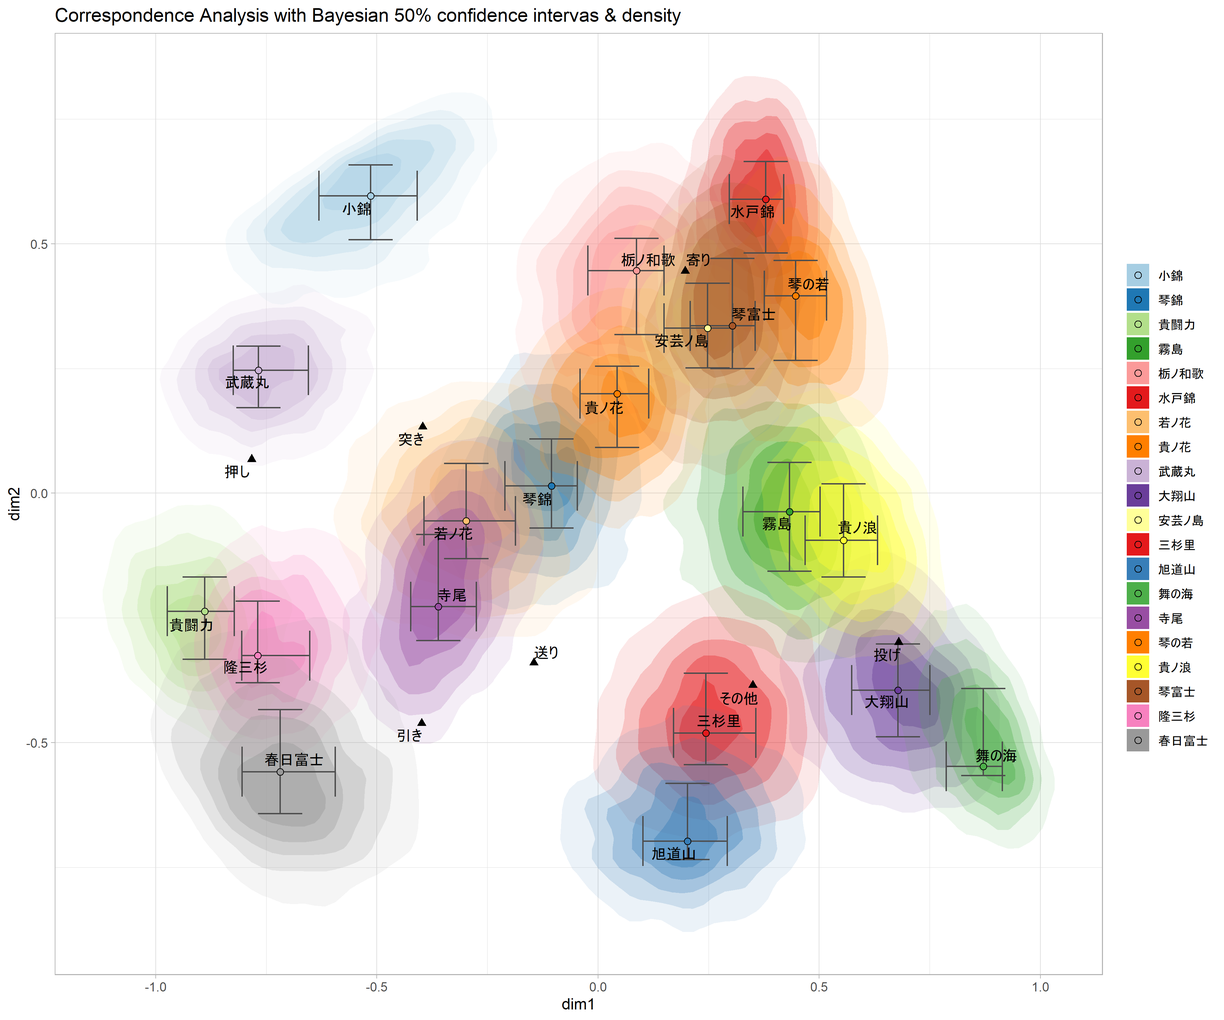
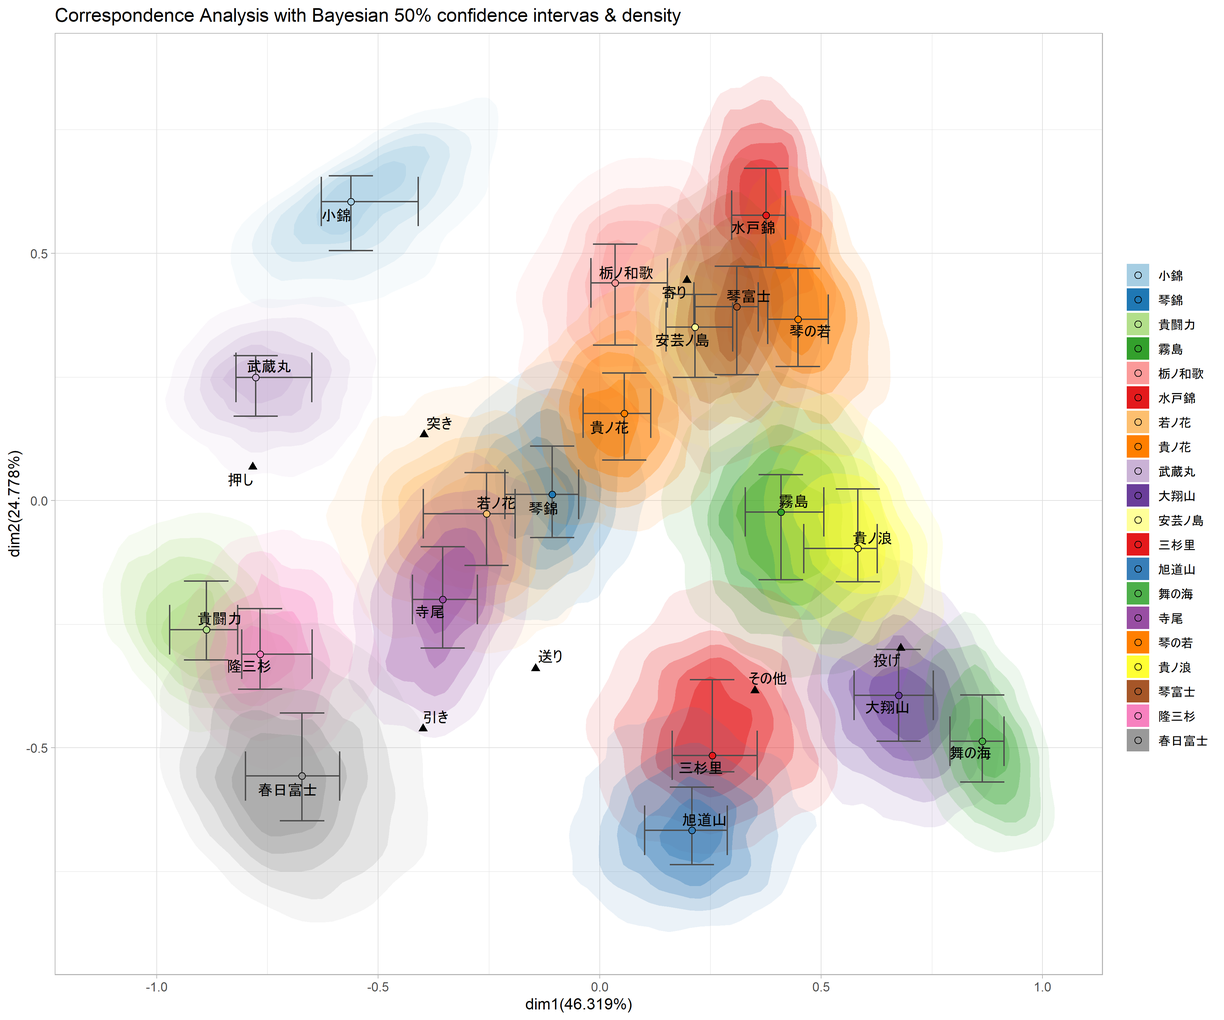
corresp-and-bayes

diff --git a/2020/12/corresp-and-bayes/index.html b/2020/12/corresp-and-bayes/index.html
@@ -69,16 +69,16 @@
 
 <div class="main-content">
     <div class="main-content__date">
-        <h4 id="date"> 2020.12.10 00:00 </h4>
+        <h4 id="date"> 2020.12.11 00:00 </h4>
     </div>
     <div class="main-content__title">
-        <h1 id="title">対応分析の付置にベイズ信頼区間をもたせる</h1>
+        <h1 id="title">Stanで対応分析の付置にベイズ信頼区間をもたせる</h1>
     </div>
     <div class="main-content__article">
         <article id="content">
             <h1 id="はじめに">はじめに</h1>
-<p>この記事は<a href="https://qiita.com/advent-calendar/2020/stan">Stan Advent calendar</a>12月12日にエントリーしている記事です。<br>
-普段よりもこのページを見る人が多いと思うので少し自分のことについて。私はアカデミックの世界に身を置いている訳でもなし、IT系で働いている訳でもない一般人です。このブログのテーマも興味のおもむくままに。なのであまり詮索しないでください…</p>
+<p>この記事は<a href="https://qiita.com/advent-calendar/2020/stan">Stan Advent calendar</a>12月12日の記事です。<br>
+普段よりもこのページを見る人が多いと思います、私のことは<a href="https://rmorita-stat.github.io/about/">こちら</a>で紹介しています。匿名主義なので何の情報もありませんが…</p>
 <p>ここでは多変量解析の一つである<strong>対応分析</strong>を題材にします。</p>
 <p>対応分析は多変量のカテゴリカルデータに用いられる分析で、クロス集計表の結果を視覚的に表現するために使われる統計的手法です。</p>
 <p>実は対応分析は私の修士研究で使用した解析手法なのですが、対応分析の付置はデータ数に依存しないことから、座標を得るだけでその信頼性が確認できないところに当時問題を感じていました。<br>
@@ -113,7 +113,8 @@
 </ul>
 <!-- raw HTML omitted -->
 <p>参考にした論文は前回と同様の<a href="https://www.jstage.jst.go.jp/article/jscswabun/7/2/7_KJ00002502205/_article/-char/ja/">こちら</a>です。  <br>
-この論文はもうだいぶ古いですが、既に対応分析の付置の信頼性の問題を解決してくれています。ただし解析的な正規分布への近似をもとに信頼区間を求めているようなので、本記事ではこの論文とは別のベイズ的なアプローチをとることにします。</p>
+この論文はもうだいぶ古いですが、既に対応分析の付置の信頼性の問題に着目しています。ただし解析的な正規分布への近似をもとに信頼区間を求めているようなので、本記事ではこの論文とは別のベイズ的なアプローチをとることにします。</p>
+<p>ベイズ的なアプローチの部分は先行文献が見当たらなかったのでオリジナルです。そんな変なことはしていないと思うのですが…いや、どうなんだろう。</p>
 <h1 id="対応分析について">対応分析について</h1>
 <p>対応分析とはクロス集計表など、カテゴリカルな行と列のデータを視覚的に表現することで、項目間の関係を把握しようとする手法です。コレスポンデンス分析とも呼ばれ、数理的には林先生の数量化理論第Ⅲ類と同等のものとされています。<br>
 対応分析の数理的な内容については、<a href="https://rmorita-stat.github.io/2020/11/correspondenceanalysis/">前回の記事</a>で説明しているのでそちらを覗いてください。</p>
@@ -535,6 +536,16 @@ $$
 
 <span class="n">waza_coord</span> <span class="o">&lt;-</span> <span class="nf">data.frame</span><span class="p">(</span><span class="n">dim</span><span class="o">=</span><span class="n">waza_coord</span><span class="p">,</span> <span class="n">target</span><span class="o">=</span><span class="nf">c</span><span class="p">(</span><span class="s">&#34;寄り&#34;</span><span class="p">,</span><span class="s">&#34;押し&#34;</span><span class="p">,</span><span class="s">&#34;投げ&#34;</span><span class="p">,</span><span class="s">&#34;引き&#34;</span><span class="p">,</span><span class="s">&#34;送り&#34;</span><span class="p">,</span><span class="s">&#34;突き&#34;</span><span class="p">,</span><span class="s">&#34;その他&#34;</span><span class="p">))</span>
 
+<span class="n">varsum</span> <span class="o">&lt;-</span> <span class="nf">sum</span><span class="p">(</span><span class="n">X_pca</span><span class="o">$</span><span class="n">values[1</span><span class="o">:</span><span class="m">6</span><span class="n">]</span><span class="p">)</span>
+<span class="nf">cat</span><span class="p">(</span><span class="nf">paste</span><span class="p">(</span><span class="nf">sprintf</span><span class="p">(</span><span class="s">&#34;\nContribution Rate of dim%.f: %.3f&#34;</span><span class="p">,</span> <span class="m">1</span><span class="o">:</span><span class="m">6</span><span class="p">,</span><span class="n">X_pca</span><span class="o">$</span><span class="n">values[1</span><span class="o">:</span><span class="m">6</span><span class="n">]</span><span class="o">/</span><span class="n">varsum</span><span class="p">)))</span>
+
+<span class="c1">## Contribution Rate of dim1: 0.463</span>
+<span class="c1">## Contribution Rate of dim2: 0.248</span>
+<span class="c1">## Contribution Rate of dim3: 0.165</span>
+<span class="c1">## Contribution Rate of dim4: 0.060</span>
+<span class="c1">## Contribution Rate of dim5: 0.038</span>
+<span class="c1">## Contribution Rate of dim6: 0.026</span>
+
 <span class="c1"># stanを走らせる ------------------------------------------------------------</span>
 
 <span class="n">data</span> <span class="o">&lt;-</span> <span class="nf">list</span><span class="p">(</span><span class="n">Sum</span><span class="o">=</span><span class="n">N</span><span class="p">,</span> <span class="n">N</span><span class="o">=</span><span class="n">n</span><span class="p">,</span> <span class="n">M</span><span class="o">=</span><span class="n">m</span><span class="p">,</span> <span class="n">d</span><span class="o">=</span><span class="n">smo_data</span><span class="p">,</span> <span class="n">K</span><span class="o">=</span><span class="n">K</span><span class="p">,</span> <span class="n">eigenvector</span><span class="o">=</span><span class="nf">t</span><span class="p">(</span><span class="n">X_pca</span><span class="o">$</span><span class="n">vectors[</span><span class="p">,</span><span class="m">1</span><span class="o">:</span><span class="n">K]</span><span class="p">))</span>
@@ -553,7 +564,7 @@ $$
 <span class="c1">## theta[1,5]  0.03       0 0.03 0.00 0.01 0.02 0.04  0.11  3747    1</span>
 <span class="c1">## theta[1,6]  0.00       0 0.00 0.00 0.00 0.00 0.00  0.00  4123    1</span>
 <span class="c1">## theta[1,7]  0.03       0 0.03 0.00 0.01 0.02 0.05  0.11  4463    1</span>
-<span class="c1">## ～（以下略）～</span>
+<span class="c1">## ～（以下略、全部Rhat1でした）～</span>
 </code></pre></div><p>次にインスタ映えプロットを作ります。今回のインスタ映えプロットは観測値から得られる（真の）第1軸と第2軸をもとに付置した対応分析の同時付置図です。項目$I$の各ポイントについてそのベイズ信頼区間を示しました<sup id="fnref:10"><a href="#fn:10" class="footnote-ref" role="doc-noteref">10</a></sup>。</p>
 <div class="highlight"><pre class="chroma"><code class="language-r" data-lang="r"><span class="nf">library</span><span class="p">(</span><span class="n">tidyr</span><span class="p">)</span>
 <span class="nf">library</span><span class="p">(</span><span class="n">dplyr</span><span class="p">)</span>
@@ -624,24 +635,28 @@ $$
   <span class="nf">theme_light</span><span class="p">(</span><span class="n">base_size</span><span class="o">=</span><span class="m">11</span><span class="p">)</span> <span class="o">+</span> <span class="nf">guides</span><span class="p">(</span><span class="n">alpha</span><span class="o">=</span><span class="kc">FALSE</span><span class="p">)</span> <span class="o">+</span>
   <span class="nf">stat_density_2d</span><span class="p">(</span><span class="n">data</span><span class="o">=</span><span class="n">plot_row_EST_range.df</span><span class="p">,</span> <span class="nf">aes</span><span class="p">(</span><span class="n">x</span><span class="o">=</span><span class="n">dim1</span><span class="p">,</span> <span class="n">y</span><span class="o">=</span><span class="n">dim2</span><span class="p">,</span> <span class="n">alpha</span><span class="o">=</span><span class="n">..nlevel..</span><span class="p">,</span> <span class="n">fill</span><span class="o">=</span><span class="n">target</span><span class="p">),</span> <span class="n">geom</span><span class="o">=</span><span class="s">&#34;polygon&#34;</span><span class="p">,</span> <span class="n">bins</span><span class="o">=</span><span class="m">7</span><span class="p">)</span><span class="o">+</span>
   <span class="nf">geom_errorbar</span><span class="p">(</span><span class="n">data</span><span class="o">=</span><span class="n">plot_row_EST.df</span><span class="p">,</span> <span class="nf">aes</span><span class="p">(</span><span class="n">x</span><span class="o">=</span><span class="n">dim1_MAP</span><span class="p">,</span> <span class="n">y</span><span class="o">=</span><span class="n">dim2_MAP</span><span class="p">,</span><span class="n">ymin</span><span class="o">=</span><span class="n">dim2_lower</span><span class="p">,</span> <span class="n">ymax</span><span class="o">=</span><span class="n">dim2_upper</span><span class="p">),</span><span class="n">col</span><span class="o">=</span><span class="s">&#34;grey30&#34;</span><span class="p">,</span> <span class="n">width</span><span class="o">=</span><span class="m">0.1</span><span class="p">,</span><span class="n">alpha</span><span class="o">=</span><span class="m">1</span><span class="p">)</span> <span class="o">+</span>
-  <span class="nf">geom_errorbarh</span><span class="p">(</span><span class="n">data</span><span class="o">=</span><span class="n">plot_row_EST.df</span><span class="p">,</span> <span class="nf">aes</span><span class="p">(</span><span class="n">y</span><span class="o">=</span><span class="n">dim2_MAP</span><span class="p">,</span><span class="n">xmin</span><span class="o">=</span><span class="n">dim1_lower</span><span class="p">,</span> <span class="n">xmax</span><span class="o">=</span><span class="n">dim1_upper</span><span class="p">,),</span><span class="n">col</span><span class="o">=</span><span class="s">&#34;grey30&#34;</span><span class="p">,</span> <span class="n">height</span><span class="o">=</span><span class="m">0.1</span><span class="p">,</span><span class="n">alpha</span><span class="o">=</span><span class="m">1</span><span class="p">)</span> <span class="o">+</span>
-  <span class="nf">geom_point</span><span class="p">(</span><span class="n">data</span><span class="o">=</span><span class="n">waza_coord</span><span class="p">,</span> <span class="nf">aes</span><span class="p">(</span><span class="n">x</span><span class="o">=</span><span class="n">dim.1</span><span class="p">,</span> <span class="n">y</span><span class="o">=</span><span class="n">dim.2</span><span class="p">),</span><span class="n">size</span><span class="o">=</span><span class="m">2</span><span class="p">,</span> <span class="n">shape</span><span class="o">=</span><span class="m">17</span><span class="p">)</span> <span class="o">+</span>
+  <span class="nf">geom_errorbarh</span><span class="p">(</span><span class="n">data</span><span class="o">=</span><span class="n">plot_row_EST.df</span><span class="p">,</span> <span class="nf">aes</span><span class="p">(</span><span class="n">y</span><span class="o">=</span><span class="n">dim2_MAP</span><span class="p">,</span><span class="n">xmin</span><span class="o">=</span><span class="n">dim1_lower</span><span class="p">,</span> <span class="n">xmax</span><span class="o">=</span><span class="n">dim1_upper</span><span class="p">),</span><span class="n">col</span><span class="o">=</span><span class="s">&#34;grey30&#34;</span><span class="p">,</span> <span class="n">height</span><span class="o">=</span><span class="m">0.1</span><span class="p">,</span><span class="n">alpha</span><span class="o">=</span><span class="m">1</span><span class="p">)</span> <span class="o">+</span>
+  <span class="nf">geom_point</span><span class="p">(</span><span class="n">data</span><span class="o">=</span><span class="n">waza_axis</span><span class="p">,</span> <span class="nf">aes</span><span class="p">(</span><span class="n">x</span><span class="o">=</span><span class="n">dim.1</span><span class="p">,</span> <span class="n">y</span><span class="o">=</span><span class="n">dim.2</span><span class="p">),</span><span class="n">size</span><span class="o">=</span><span class="m">2</span><span class="p">,</span> <span class="n">shape</span><span class="o">=</span><span class="m">17</span><span class="p">)</span> <span class="o">+</span>
   <span class="nf">geom_point</span><span class="p">(</span><span class="n">data</span><span class="o">=</span><span class="n">plot_row_EST.df</span><span class="p">,</span> <span class="nf">aes</span><span class="p">(</span><span class="n">x</span><span class="o">=</span><span class="n">dim1_MAP</span><span class="p">,</span> <span class="n">y</span><span class="o">=</span><span class="n">dim2_MAP</span><span class="p">,</span><span class="n">fill</span><span class="o">=</span><span class="n">target</span><span class="p">),</span><span class="n">shape</span><span class="o">=</span><span class="m">21</span><span class="p">,</span><span class="n">size</span><span class="o">=</span><span class="m">2</span><span class="p">)</span> <span class="o">+</span>
   <span class="nf">geom_text_repel</span><span class="p">(</span><span class="n">data</span><span class="o">=</span><span class="n">plot_row_EST.df</span><span class="p">,</span><span class="nf">aes</span><span class="p">(</span><span class="n">x</span><span class="o">=</span><span class="n">dim1_MAP</span><span class="p">,</span><span class="n">y</span><span class="o">=</span><span class="n">dim2_MAP</span><span class="p">,</span><span class="n">label</span><span class="o">=</span><span class="n">target</span><span class="p">))</span> <span class="o">+</span>
-  <span class="nf">geom_text_repel</span><span class="p">(</span><span class="n">data</span><span class="o">=</span><span class="n">waza_coord</span><span class="p">,</span> <span class="nf">aes</span><span class="p">(</span><span class="n">x</span><span class="o">=</span><span class="n">dim.1</span><span class="p">,</span> <span class="n">y</span><span class="o">=</span><span class="n">dim.2</span><span class="p">,</span> <span class="n">label</span><span class="o">=</span><span class="n">target</span><span class="p">))</span> <span class="o">+</span>
-  <span class="nf">labs</span><span class="p">(</span><span class="n">title</span><span class="o">=</span><span class="s">&#34;Correspondence Analysis with Bayesian 50% confidence intervas &amp; density&#34;</span><span class="p">,</span> <span class="n">x</span><span class="o">=</span><span class="s">&#34;dim1&#34;</span><span class="p">,</span> <span class="n">y</span><span class="o">=</span><span class="s">&#34;dim2&#34;</span><span class="p">)</span> <span class="o">+</span>
+  <span class="nf">geom_text_repel</span><span class="p">(</span><span class="n">data</span><span class="o">=</span><span class="n">waza_axis</span><span class="p">,</span> <span class="nf">aes</span><span class="p">(</span><span class="n">x</span><span class="o">=</span><span class="n">dim.1</span><span class="p">,</span> <span class="n">y</span><span class="o">=</span><span class="n">dim.2</span><span class="p">,</span> <span class="n">label</span><span class="o">=</span><span class="n">target</span><span class="p">))</span> <span class="o">+</span>
+  <span class="nf">labs</span><span class="p">(</span><span class="n">title</span><span class="o">=</span><span class="s">&#34;Correspondence Analysis with Bayesian 50% confidence intervas &amp; density&#34;</span><span class="p">,</span>
+       <span class="n">x</span><span class="o">=</span><span class="nf">sprintf</span><span class="p">(</span><span class="s">&#34;dim1(%.3f%%)&#34;</span><span class="p">,</span> <span class="n">var_rate[1]</span><span class="o">*</span><span class="m">100</span><span class="p">),</span> <span class="n">y</span><span class="o">=</span><span class="nf">sprintf</span><span class="p">(</span><span class="s">&#34;dim2(%.3f%%)&#34;</span><span class="p">,</span> <span class="n">var_rate[2]</span><span class="o">*</span><span class="m">100</span><span class="p">))</span> <span class="o">+</span>
   <span class="nf">theme</span><span class="p">(</span><span class="n">legend.title</span> <span class="o">=</span> <span class="nf">element_blank</span><span class="p">())</span> <span class="o">+</span>
   <span class="nf">scale_fill_manual</span><span class="p">(</span><span class="n">values</span><span class="o">=</span><span class="n">mycol</span><span class="p">)</span> <span class="o">+</span>
   <span class="nf">scale_alpha_continuous</span><span class="p">(</span><span class="n">range</span><span class="o">=</span><span class="nf">c</span><span class="p">(</span><span class="m">0.1</span><span class="p">,</span><span class="m">0.5</span><span class="p">))</span>
 <span class="n">p</span>
 
 </code></pre></div><p><img src="/post/corresp-and-bayes/res_plot_density(EST).png" alt="uni"></p>
-<p>It&rsquo;s so brilliant&hellip;
+<p>今回は1次元・2次元だけでなく3次元以降も可視化できるようにしてます。</p>
+<p><img src="/post/corresp-and-bayes/res_plot_density(EST)_dim3.png" alt="uni"></p>
+<p>It&rsquo;s so brilliant!
 
 <div style="position: relative; padding-bottom: 56.25%; height: 0; overflow: hidden;">
   <iframe src="https://www.youtube.com/embed/JpQQhsNI-ns" style="position: absolute; top: 0; left: 0; width: 100%; height: 100%; border:0;" allowfullscreen title="YouTube Video"></iframe>
 </div>
 </p>
+<p>どちらの図も、付置が縄跳び状ですね。対応分析の付置図はこのようになわとびのような形になる（馬蹄形効果）ことが多いようです。それ自体が悪いことなのかよく知らないのですが、これに対する対応策もあるようです（今後の自分への宿題）。</p>
 <p>対応分析の結果の解釈は<a href="https://rmorita-stat.github.io/2020/11/correspondenceanalysis/#%E7%B5%90%E6%9E%9C%E3%81%AE%E8%A7%A3%E9%87%88">前回の記事</a>に譲り、項目$I$の各ポイントの信頼区間について確認してみます。</p>
 <p>白星の最も多い力士は貴乃花で59、最も少ない力士は春日富士で25でした。そこで両者の付置の信頼区間をみると、春日富士の方がやはり貴乃花よりも推定幅が広いようです。がしかしその差は明瞭ではなく、貴乃花よりも貴闘力（白星43）のほうが信頼区間の幅が狭いです。主成分ベクトルによる写像の影響も絡んでいるのでしょう。<br>
 一応貴ノ花と春日富士の従う多項分布のパラメータの事後分布を確認します。</p>
@@ -674,9 +689,9 @@ $$
 <p>期待通りの結果です。私の信頼区間だけ他と比べて広いです。特に「引き」の寄与が大きい「組んで取る相撲」-「離れて取る相撲」の第2軸についてその傾向が大きく、座標の正負もあやしい状態です。</p>
 <p>以上で対応分析の同時付置図に各ポイントの信頼区間を示すことが出来ていることを確認できました。</p>
 <h1 id="まとめ">まとめ</h1>
-<p>対応分析の同時付置図にベイズ信頼区間を表示する試みを紹介しました。やったことは単純で、対応分析の同時付置図には抜け落ちてしまっている標本数の情報を、多項分布モデルの事後分布幅に読み替え、MCMCサンプルの分布を同時付置上に加えただけです。
+<p>対応分析の同時付置図にベイズ信頼区間を表示する試みを紹介しました。やったことは単純で、対応分析の同時付置図には抜け落ちてしまっている標本数や付置の信頼度の情報を、多項分布モデルの事後分布幅に読み替え、MCMCサンプルの分布を同時付置図上に加えただけです。
 同時付置図を基に項目をパターン分けしたりする際、今回のような方法で同時付置図上にポイントの信頼区間を表示することで、誤った判断を下すことを防げるのではないかと思っています。<br>
-あとは図がとても美しい…</p>
+あとは図がとても美しいのがウリですね。</p>
 <section class="footnotes" role="doc-endnotes">
 <hr>
 <ol>

diff --git a/tags/rstan/index.html b/tags/rstan/index.html
@@ -75,6 +75,11 @@
         <div class="main-content__posts index-posts">
             
             <div class="index-posts__list">
+                <div class="l-time"><a href="https://rmorita-stat.github.io/2020/12/corresp-and-bayes/">2020.12.11 00:00</a></div>
+                <div class="l-title"><a href="https://rmorita-stat.github.io/2020/12/corresp-and-bayes/">Stanで対応分析の付置にベイズ信頼区間をもたせる</a></div>
+            </div>
+            
+            <div class="index-posts__list">
                 <div class="l-time"><a href="https://rmorita-stat.github.io/2020/07/multinom-gp/">2020.07.12 00:00</a></div>
                 <div class="l-title"><a href="https://rmorita-stat.github.io/2020/07/multinom-gp/">多項ロジスティック回帰・ガウス過程モデル</a></div>
             </div>

diff --git a/post/index.html b/post/index.html
@@ -79,6 +79,11 @@
                 
                 
                 <div class="index-posts__list">
+                    <div class="l-time"><a href="https://rmorita-stat.github.io/2020/12/corresp-and-bayes/">2020.12.11 00:00</a></div>
+                    <div class="l-title"><a href="https://rmorita-stat.github.io/2020/12/corresp-and-bayes/">Stanで対応分析の付置にベイズ信頼区間をもたせる</a></div>
+                </div>
+                
+                <div class="index-posts__list">
                     <div class="l-time"><a href="https://rmorita-stat.github.io/2020/11/correspondenceanalysis/">2020.11.07 00:00</a></div>
                     <div class="l-title"><a href="https://rmorita-stat.github.io/2020/11/correspondenceanalysis/">対応分析について</a></div>
                 </div>

diff --git a/tags/多変量解析/index.html b/tags/多変量解析/index.html
@@ -75,6 +75,11 @@
         <div class="main-content__posts index-posts">
             
             <div class="index-posts__list">
+                <div class="l-time"><a href="https://rmorita-stat.github.io/2020/12/corresp-and-bayes/">2020.12.11 00:00</a></div>
+                <div class="l-title"><a href="https://rmorita-stat.github.io/2020/12/corresp-and-bayes/">Stanで対応分析の付置にベイズ信頼区間をもたせる</a></div>
+            </div>
+            
+            <div class="index-posts__list">
                 <div class="l-time"><a href="https://rmorita-stat.github.io/2020/11/correspondenceanalysis/">2020.11.07 00:00</a></div>
                 <div class="l-title"><a href="https://rmorita-stat.github.io/2020/11/correspondenceanalysis/">対応分析について</a></div>
             </div>

diff --git a/index.html b/index.html
@@ -86,6 +86,11 @@
     
     
     <div class="index-posts__list">
+        <div class="l-time"><a href="https://rmorita-stat.github.io/2020/12/corresp-and-bayes/">2020.12.11 00:00</a></div>
+        <div class="l-title"><a href="https://rmorita-stat.github.io/2020/12/corresp-and-bayes/">Stanで対応分析の付置にベイズ信頼区間をもたせる</a></div>
+    </div>
+    
+    <div class="index-posts__list">
         <div class="l-time"><a href="https://rmorita-stat.github.io/2020/11/correspondenceanalysis/">2020.11.07 00:00</a></div>
         <div class="l-title"><a href="https://rmorita-stat.github.io/2020/11/correspondenceanalysis/">対応分析について</a></div>
     </div>

diff --git a/tags/index.html b/tags/index.html
@@ -82,7 +82,7 @@
             
             <span class="mpl-t-wrap">
                <a href="https://rmorita-stat.github.io/tags/rstan">rstan
-                   <span>(4)</span>
+                   <span>(5)</span>
                </a>
             </span>
             
@@ -106,7 +106,7 @@
             
             <span class="mpl-t-wrap">
                <a href="https://rmorita-stat.github.io/tags/%E5%A4%9A%E5%A4%89%E9%87%8F%E8%A7%A3%E6%9E%90">多変量解析
-                   <span>(1)</span>
+                   <span>(2)</span>
                </a>
             </span>
             

diff --git a/2020/11/correspondenceanalysis/index.html b/2020/11/correspondenceanalysis/index.html
@@ -468,6 +468,14 @@ $$
     </a>
     
     
+    <a class="next" href="https://rmorita-stat.github.io/2020/12/corresp-and-bayes/">
+        <div class="pn-dec"></div>
+        <div class="pn-els">
+            <div class="pn-el__1"> 2020.12.11 00:00 </div>
+            <div class="pn-el__2"> Stanで対応分析の付置にベイズ信頼区間をもたせる </div>
+        </div>
+    </a>
+    
 </div>
 
 <footer>
